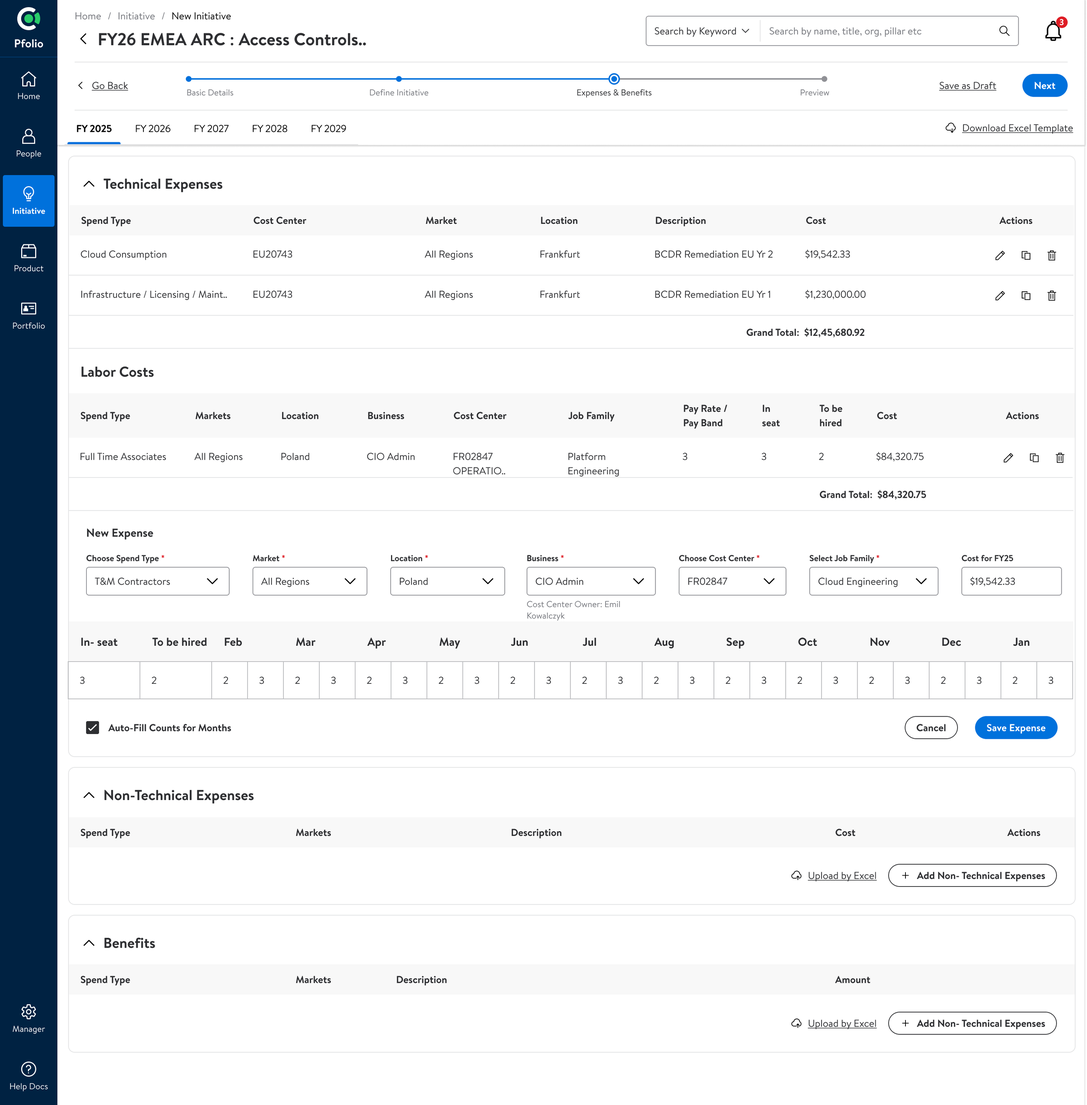
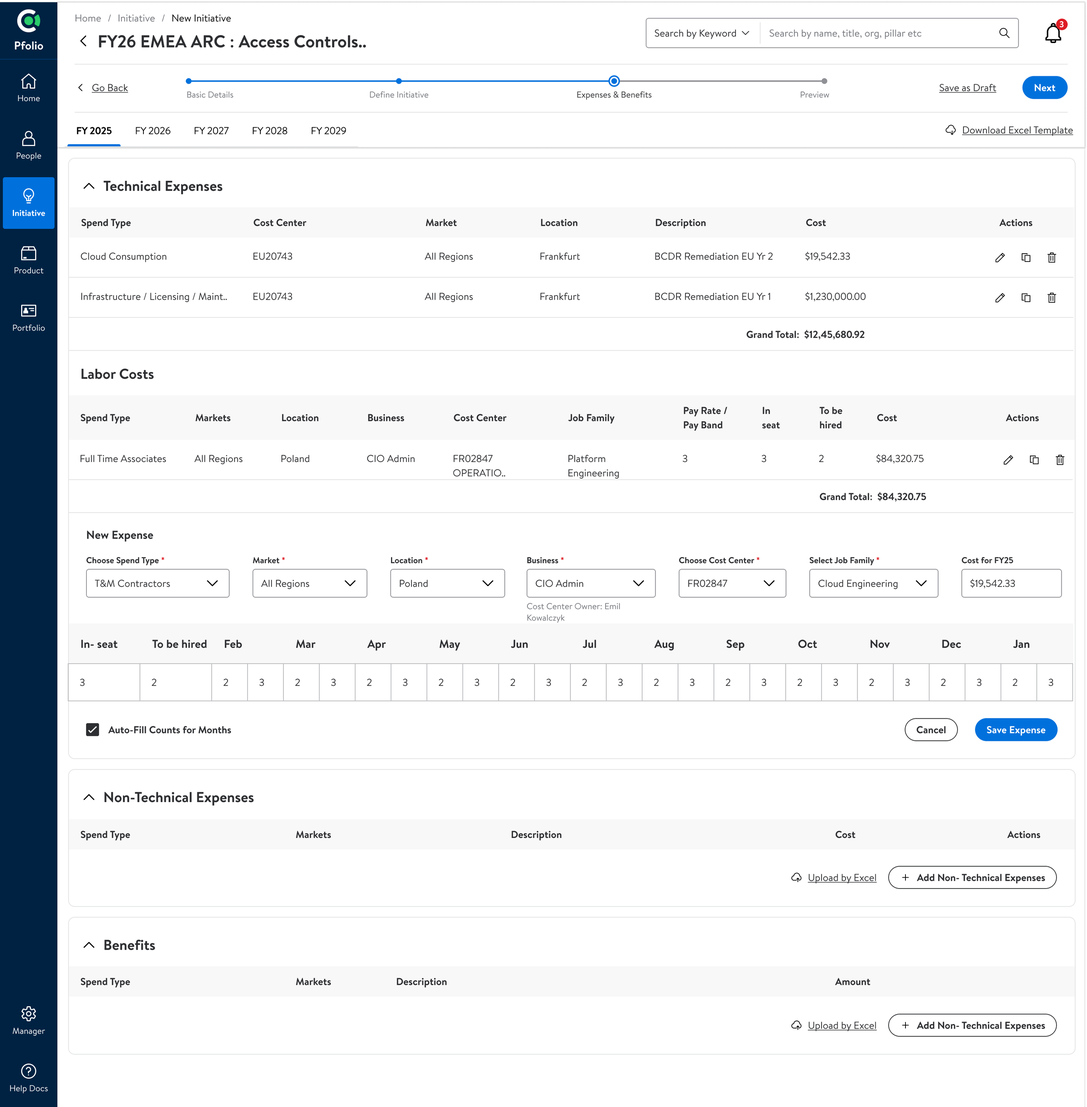
content(portfolio-management): every screen shown whole, plus My Profile and Product Details
- All mocks run to their full height instead of being cropped at the blank area;
  hotspots recomputed against the full images
- My Profile (with a replaced associate ID) joins People; Product Details joins
  Product
- The Jira project is described as the epic work is tagged to
- Ask Pfolio opens the same assistant as the home screen

diff --git a/src/app/work/portfolio-management/page.tsx b/src/app/work/portfolio-management/page.tsx
@@ -149,21 +149,21 @@ export default function PortfolioManagementPage() {
           {
             src: "/work/portfolio-management/home.png",
             width: 2880,
-            height: 2204,
+            height: 2210,
             alt: "The platform's home screen: a search field, alerts, quick links for new requests, a profile card and an assistant",
             route: "/home",
           },
           {
             src: "/work/portfolio-management/products.png",
             width: 2880,
-            height: 2531,
+            height: 2633,
             alt: "A product page: its leaders, a written summary, headcount by type and by role, and the people allocated",
             route: "/product",
           },
           {
             src: "/work/portfolio-management/okr.png",
             width: 2880,
-            height: 2571,
+            height: 2286,
             alt: "The Portfolio page: strategic pillars across the top and a table of objectives with planned and actual headcount",
             route: "/portfolio",
           },
@@ -247,33 +247,33 @@ export default function PortfolioManagementPage() {
               route="/home"
               src="/work/portfolio-management/home.png"
               width={2880}
-              height={2204}
+              height={2210}
               crop
               maxHeight="40rem"
               alt="The platform's home screen: a search field, alerts, quick links for new requests, a profile card and an assistant"
               caption="Five categories down the side, one search, and the first requests, all in common words."
               hotspots={[
                 {
-                  x: 2.65,
-                  y: 28,
+                  x: 2.6,
+                  y: 28.2,
                   title: "Categories in plain words",
                   detail: "People, Initiative, Product, Portfolio and Manager, each named for the thing someone is looking for, with Home above them.",
                 },
                 {
                   x: 52.5,
-                  y: 17.1,
+                  y: 17.3,
                   title: "One search, or ask in a sentence",
                   detail: "Search by name, title, org or pillar, or just ask in full sentences, from the first screen.",
                 },
                 {
                   x: 17.5,
-                  y: 57.8,
+                  y: 57.9,
                   title: "Requests start from home",
                   detail: "New Product Request and New Initiative Request are the first two quick links.",
                 },
                 {
-                  x: 82,
-                  y: 47.7,
+                  x: 82.0,
+                  y: 47.8,
                   title: "An assistant for finding things",
                   detail: "A chat that starts from four prompts, such as finding people by name, position or ID, or the details of a product or initiative.",
                 },
@@ -308,17 +308,32 @@ export default function PortfolioManagementPage() {
               label="People"
               slides={[
                 {
+                  title: "My Profile holds a person, and the people they manage",
+                  route: "/people/profile",
+                  src: "/work/portfolio-management/my-profile.png",
+                  width: 2880,
+                  height: 2557,
+                  alt: "My Profile: profile details, product team and initiative allocations in the middle, and direct reports with their allocations on the right",
+                  caption: "A person's details, their allocations as percentages, and their direct reports' allocations sit on one page.",
+                  hotspots: [
+                    { x: 20, y: 8.3, title: "Five views under People", detail: "My Profile, Leadership Overview, People Overview, Org Chart and People Search are tabs under one name." },
+                    { x: 40.8, y: 16.9, title: "Allocations, as percentages", detail: "A person's product team and initiative allocations sit in the middle column, each with a percentage." },
+                    { x: 77, y: 12.9, title: "Direct reports in the same view", detail: "A manager sees their direct reports' roles, cost centres and allocated products beside their own profile." },
+                    { x: 84.7, y: 24.6, title: "Changed where it is read", detail: "Update Allocations sits on the person's card, so an allocation is changed where it is read." },
+                  ],
+                },
+                {
                   title: "The org chart opens on the person",
                   route: "/people/org-chart",
                   src: "/work/portfolio-management/org-chart.png",
                   width: 2880,
-                  height: 1910,
+                  height: 2372,
                   alt: "An org chart: a senior leader above, a manager below, and the manager's team in a grid with the selected person highlighted",
                   caption: "A person sits in the middle of the chart, with who they report to above them and their team around them.",
                   hotspots: [
-                    { x: 15.4, y: 11.1, title: "Three views of a person", detail: "My Profile, Org Chart and People Search sit as tabs under one name, so moving between who someone is, who they report to and how to find others stays inside People." },
-                    { x: 51.8, y: 42.1, title: "Each card carries the team", detail: "Role and team on every card, with the rest of the team behind “+2 Others” rather than drawn out." },
-                    { x: 40, y: 59.4, title: "You can see where you are", detail: "The person the chart is about is highlighted, with their reporting line drawn to the people above and below." },
+                    { x: 15.4, y: 9.2, title: "Three views of a person", detail: "My Profile, Org Chart and People Search sit as tabs under one name, so moving between who someone is, who they report to and how to find others stays inside People." },
+                    { x: 51.8, y: 34.1, title: "Each card carries the team", detail: "Role and team on every card, with the rest of the team behind “+2 Others” rather than drawn out." },
+                    { x: 40.0, y: 48.1, title: "You can see where you are", detail: "The person the chart is about is highlighted, with their reporting line drawn to the people above and below." },
                   ],
                 },
                 {
@@ -326,13 +341,13 @@ export default function PortfolioManagementPage() {
                   route: "/people/search",
                   src: "/work/portfolio-management/people-search.png",
                   width: 2880,
-                  height: 2318,
+                  height: 2324,
                   alt: "People search: quick and applied filters on the left, and each person's product team and initiative allocations on the right",
                   caption: "Filters narrow the directory, and each result shows allocations beside the person, as a percentage.",
                   hotspots: [
-                    { x: 15, y: 18, title: "Filters that can be saved", detail: "Quick filters can be saved and reused, with the applied filters listed beneath, so what is narrowing the list is always visible." },
-                    { x: 59.5, y: 19.1, title: "Allocations beside the person", detail: "Each result shows the product teams and initiatives someone is allocated to, with a percentage for each." },
-                    { x: 93, y: 13.9, title: "Data quality issues, from the list", detail: "A Data Quality Issues control sits above the results, so records that need fixing can be found from where people are searched." },
+                    { x: 15.0, y: 18.2, title: "Filters that can be saved", detail: "Quick filters can be saved and reused, with the applied filters listed beneath, so what is narrowing the list is always visible." },
+                    { x: 59.5, y: 19.3, title: "Allocations beside the person", detail: "Each result shows the product teams and initiatives someone is allocated to, with a percentage for each." },
+                    { x: 93.0, y: 14.1, title: "Data quality issues, from the list", detail: "A Data Quality Issues control sits above the results, so records that need fixing can be found from where people are searched." },
                   ],
                 },
               ]}
@@ -360,14 +375,29 @@ export default function PortfolioManagementPage() {
                   route: "/product/all",
                   src: "/work/portfolio-management/products.png",
                   width: 2880,
-                  height: 2531,
+                  height: 2633,
                   alt: "A product page: the hierarchy, its leaders, a written summary, headcount by type and by role, and the people allocated",
                   caption: "The page opens on the product's leaders, a short written summary, and headcount by type and by role.",
                   hotspots: [
-                    { x: 36.1, y: 13.5, title: "The hierarchy in the header", detail: "The org, the pillar and the product, each a link, so the place a product sits is one click from the level above." },
-                    { x: 47.9, y: 28.7, title: "A written summary first", detail: "A short summary of the org sits above its numbers, with View Summary for the rest." },
-                    { x: 61.9, y: 46.8, title: "Headcount by role, as filters", detail: "Each role is a chip with its count, drawn as a filter for the people listed below." },
-                    { x: 92.3, y: 14, title: "A request starts where products are listed", detail: "Request New Product sits at the top of the product page, not in a separate area." },
+                    { x: 35.0, y: 12.8, title: "The hierarchy in the header", detail: "The org, the pillar and the product, each a link, so the place a product sits is one click from the level above." },
+                    { x: 46.5, y: 27.0, title: "A written summary first", detail: "A short summary of the org sits above its numbers, with View Summary for the rest." },
+                    { x: 60.0, y: 43.8, title: "Headcount by role, as filters", detail: "Each role is a chip with its count, drawn as a filter for the people listed below." },
+                    { x: 89.5, y: 13.3, title: "A request starts where products are listed", detail: "Request New Product sits at the top of the product page, not in a separate area." },
+                  ],
+                },
+                {
+                  title: "A product page names who is responsible",
+                  route: "/product/details",
+                  src: "/work/portfolio-management/product-details.png",
+                  width: 2880,
+                  height: 2431,
+                  alt: "Product Details: name, pillar, sub pillar and IDs on the left; tags, status, description, named roles and the product's teams with their Jira project names on the right",
+                  caption: "The product's leaders, its description and its teams, each tied to a Jira project, on one page.",
+                  hotspots: [
+                    { x: 9.5, y: 8.9, title: "Product info and people", detail: "Product Info and People & Allocations are two tabs on the same product." },
+                    { x: 42.3, y: 19, title: "A description marked AI-assisted", detail: "A label beside the description says it was written with AI assistance." },
+                    { x: 45, y: 33.2, title: "Responsible people, named", detail: "The engineering manager, product manager, point of contact, product leader and program manager are named on the page." },
+                    { x: 50, y: 51, title: "Teams, tied to Jira", detail: "Each product team lists its Jira project name and team type, with status and approval status." },
                   ],
                 },
                 {
@@ -375,13 +405,13 @@ export default function PortfolioManagementPage() {
                   route: "/product/new",
                   src: "/work/portfolio-management/new-product-request.png",
                   width: 2880,
-                  height: 1291,
+                  height: 2167,
                   alt: "A new product request: a four-step line, product details, and a form to add a product team",
                   caption: "Basic details, people, product information and a preview, one step at a time, so the person asking can see what is left.",
                   hotspots: [
-                    { x: 56.5, y: 16.1, title: "Four steps, and where you are", detail: "Basic Details, Add People, Product Information and Preview, with the current step marked on the line." },
-                    { x: 11.5, y: 77.8, title: "Tied to where the work is tracked", detail: "Enterprise Jira or Non-Jira is chosen first, ahead of the Jira project and the team name, so the product and its work stay connected." },
-                    { x: 93.8, y: 42.2, title: "Teams are added to the request", detail: "Add New Team puts each team on the product, with its tracking system and approval status in the list." },
+                    { x: 56.5, y: 9.9, title: "Four steps, and where you are", detail: "Basic Details, Add People, Product Information and Preview, with the current step marked on the line." },
+                    { x: 11.5, y: 46.6, title: "Tied to where the work is tracked", detail: "Enterprise Jira or Non-Jira is chosen first, ahead of the Jira project, which is the epic the work is tagged to, and the team name." },
+                    { x: 93.8, y: 25.4, title: "Teams are added to the request", detail: "Add New Team puts each team on the product, with its tracking system and approval status in the list." },
                   ],
                 },
               ]}
@@ -408,13 +438,13 @@ export default function PortfolioManagementPage() {
                   route: "/initiative",
                   src: "/work/portfolio-management/initiatives.png",
                   width: 2880,
-                  height: 1564,
+                  height: 2114,
                   alt: "A list of initiatives with filters by org, pillar, sub-pillar and status, and columns for status, approval status, investment type and tenure",
                   caption: "Each initiative shows who created it, who approved it, and whether it is active and approved.",
                   hotspots: [
-                    { x: 31.5, y: 24.3, title: "Narrow by org, pillar, sub-pillar or status", detail: "Four filters sit above the list, in the order the hierarchy runs." },
-                    { x: 95, y: 24.6, title: "Start one, or upload it", detail: "New Initiative and Upload by Excel sit together, so details already in a sheet can come in as they are." },
-                    { x: 68.5, y: 39.4, title: "Two statuses, side by side", detail: "Status and approval status are separate columns: an initiative can be active or inactive, and approved or rejected." },
+                    { x: 31.5, y: 18.2, title: "Narrow by org, pillar, sub-pillar or status", detail: "Four filters sit above the list, in the order the hierarchy runs." },
+                    { x: 95.0, y: 18.5, title: "Start one, or upload it", detail: "New Initiative and Upload by Excel sit together, so details already in a sheet can come in as they are." },
+                    { x: 68.5, y: 29.4, title: "Two statuses, side by side", detail: "Status and approval status are separate columns: an initiative can be active or inactive, and approved or rejected." },
                   ],
                 },
                 {
@@ -422,14 +452,14 @@ export default function PortfolioManagementPage() {
                   route: "/initiative/new",
                   src: "/work/portfolio-management/new-initiative.png",
                   width: 2880,
-                  height: 2928,
+                  height: 2933,
                   alt: "A new initiative at its Expenses and Benefits step: technical expenses, labour costs with grand totals, and a form with a month-by-month count",
                   caption: "Technical and labour costs are entered by year, with a grand total under each and a month-by-month count for labour.",
                   hotspots: [
-                    { x: 54.7, y: 7.1, title: "Four steps, ending in a preview", detail: "Basic Details, Define Initiative, Expenses & Benefits, then Preview, with Save as Draft beside the steps." },
-                    { x: 18.6, y: 11.5, title: "Costs planned across five years", detail: "Tabs for FY 2025 to FY 2029, so spend is entered a year at a time." },
-                    { x: 74.3, y: 29.3, title: "A total under every cost type", detail: "Technical expenses and labour costs each end in a grand total." },
-                    { x: 8.2, y: 63.9, title: "Fill the months once", detail: "Auto-fill counts for months carries a headcount across all twelve months." },
+                    { x: 54.7, y: 7.3, title: "Four steps, ending in a preview", detail: "Basic Details, Define Initiative, Expenses & Benefits, then Preview, with Save as Draft beside the steps." },
+                    { x: 18.6, y: 11.7, title: "Costs planned across five years", detail: "Tabs for FY 2025 to FY 2029, so spend is entered a year at a time." },
+                    { x: 74.3, y: 29.4, title: "A total under every cost type", detail: "Technical expenses and labour costs each end in a grand total." },
+                    { x: 8.2, y: 64.0, title: "Fill the months once", detail: "Auto-fill counts for months carries a headcount across all twelve months." },
                   ],
                 },
               ]}
@@ -457,14 +487,14 @@ export default function PortfolioManagementPage() {
                   route: "/portfolio/okr",
                   src: "/work/portfolio-management/okr.png",
                   width: 2880,
-                  height: 2571,
+                  height: 2286,
                   alt: "The Portfolio page at OKR Management: directors to choose from, strategic pillars as cards, status counts, and objectives with planned and actual headcount",
                   caption: "Objectives are read by director and by strategic pillar, with planned and actual headcount for each.",
                   hotspots: [
-                    { x: 8.3, y: 8.3, title: "Requests and goals on one page", detail: "Intake Requests, All Requests and OKR Management are tabs under Portfolio." },
-                    { x: 36.5, y: 25.5, title: "Strategic pillars as filters", detail: "Each pillar is a card with its headcount, and clicking one filters the objectives below." },
-                    { x: 25, y: 35.2, title: "Status counts on top", detail: "All, Behind, At Risk, On Track and Bookmarked, each with a count." },
-                    { x: 50, y: 42.5, title: "Planned against actual", detail: "Planned headcount and actual headcount sit side by side for every objective." },
+                    { x: 7.4, y: 8.5, title: "Requests and goals on one page", detail: "Intake Requests, All Requests and OKR Management are tabs under Portfolio." },
+                    { x: 32.4, y: 25.6, title: "Strategic pillars as filters", detail: "Each pillar is a card with its headcount, and clicking one filters the objectives below." },
+                    { x: 22.2, y: 35.3, title: "Status counts on top", detail: "All, Behind, At Risk, On Track and Bookmarked, each with a count." },
+                    { x: 44.4, y: 42.6, title: "Planned against actual", detail: "Planned headcount and actual headcount sit side by side for every objective." },
                   ],
                 },
                 {
@@ -472,14 +502,14 @@ export default function PortfolioManagementPage() {
                   route: "/portfolio/okr/new",
                   src: "/work/portfolio-management/new-okr.png",
                   width: 2880,
-                  height: 3509,
+                  height: 3504,
                   alt: "A new OKR form: phase and status, strategic alignment, an objective definition, key results with metrics and targets, dependencies, ownership, and a comments panel",
                   caption: "An objective is aligned first, then defined, then broken into key results with a quarter target and an annual target each.",
                   hotspots: [
-                    { x: 12.2, y: 12.7, title: "A phase, and when it is approved", detail: "Planning or Approved, with the note that an objective is marked approved once it passes peer review." },
-                    { x: 21.6, y: 16.6, title: "Alignment comes first", detail: "The objective's type, its strategic theme and the L3 and L4 objectives it supports are chosen before anything is written." },
-                    { x: 36.6, y: 57, title: "Key results carry their metrics", detail: "Each key result takes one or more metrics, each with a quarter target and an annual target." },
-                    { x: 84.1, y: 9.75, title: "Comments beside the form", detail: "A comments panel sits next to the form, so a reviewer's question and the author's answer are on the page they are about." },
+                    { x: 12.2, y: 12.8, title: "A phase, and when it is approved", detail: "Planning or Approved, with the note that an objective is marked approved once it passes peer review." },
+                    { x: 21.5, y: 16.7, title: "Alignment comes first", detail: "The objective's type, its strategic theme and the L3 and L4 objectives it supports are chosen before anything is written." },
+                    { x: 36.5, y: 57.1, title: "Key results carry their metrics", detail: "Each key result takes one or more metrics, each with a quarter target and an annual target." },
+                    { x: 83.9, y: 9.9, title: "Comments beside the form", detail: "A comments panel sits next to the form, so a reviewer's question and the author's answer are on the page they are about." },
                   ],
                 },
                 {
@@ -487,13 +517,13 @@ export default function PortfolioManagementPage() {
                   route: "/portfolio/kpi",
                   src: "/work/portfolio-management/kpi.png",
                   width: 2880,
-                  height: 2919,
+                  height: 2595,
                   alt: "The KPI view of the Portfolio page: goals health as a ring, a bar of health for each director, goals by owner, and a table of goals with linked initiatives and products",
                   caption: "Goals are read by health, by director and by owner, and each goal shows the initiatives and products linked to it.",
                   hotspots: [
-                    { x: 95.8, y: 27, title: "Three views of the same goals", detail: "Compact, Detailed and Report switch how much each goal shows, without leaving the page." },
-                    { x: 50.1, y: 32.4, title: "Health by director", detail: "Each director's goals as a bar, split into on track, at risk and behind." },
-                    { x: 71, y: 64.5, title: "Goals linked to the work", detail: "Every goal lists the initiatives and the products linked to it, which is where goals meet the rest of the platform." },
+                    { x: 85.0, y: 27.1, title: "Three views of the same goals", detail: "Compact, Detailed and Report switch how much each goal shows, without leaving the page." },
+                    { x: 44.5, y: 32.5, title: "Health by director", detail: "Each director's goals as a bar, split into on track, at risk and behind." },
+                    { x: 63.0, y: 64.6, title: "Goals linked to the work", detail: "Every goal lists the initiatives and the products linked to it, which is where goals meet the rest of the platform." },
                   ],
                 },
               ]}
@@ -516,14 +546,14 @@ export default function PortfolioManagementPage() {
               route="/manager"
               src="/work/portfolio-management/admin.png"
               width={2880}
-              height={1851}
+              height={2210}
               alt="The Manager page: tabs for product, initiative, application and pillar requests with counts, a table of pending requests, alerts and quick links"
               caption="Requests of every kind in one place, with their status, and the changes a backend team once made on request."
               hotspots={[
-                { x: 27.5, y: 28.5, title: "Every kind of request, counted", detail: "Product, initiative, application and pillar requests are tabs, each with the number waiting." },
-                { x: 83.6, y: 39.5, title: "Each request carries its status", detail: "Pending, with View Request beside it." },
-                { x: 81.5, y: 64.3, title: "Changes made in the platform", detail: "Uploading rates, creating a pillar and creating an org are done here." },
-                { x: 28, y: 64, title: "Alerts when something is raised", detail: "Each new request puts an alert on the page, with the name of who raised it." },
+                { x: 27.5, y: 24.1, title: "Every kind of request, counted", detail: "Product, initiative, application and pillar requests are tabs, each with the number waiting." },
+                { x: 83.6, y: 33.4, title: "Each request carries its status", detail: "Pending, with View Request beside it." },
+                { x: 81.5, y: 54.1, title: "Changes made in the platform", detail: "Uploading rates, creating a pillar and creating an org are done here." },
+                { x: 28.0, y: 53.9, title: "Alerts when something is raised", detail: "Each new request puts an alert on the page, with the name of who raised it." },
               ]}
             />
           </CaseStudyFigure>
@@ -589,7 +619,7 @@ export default function PortfolioManagementPage() {
             <NoteCard
               label="Where it went"
               heading="The same data now answers questions in plain sentences"
-              body="The home screen has an assistant that finds people, products and initiatives from a question, and a product page opens with a written summary above its numbers. The surface is changing, and the problem is the same: structure complex information so someone can understand it and act."
+              body="The home screen has an assistant that finds people, products and initiatives from a question, and an Ask Pfolio button on the Portfolio page opens the same one. A product page opens with a written summary above its numbers. The surface is changing, and the problem is the same: structure complex information so someone can understand it and act."
               mark="AI"
               sparkle
             />
